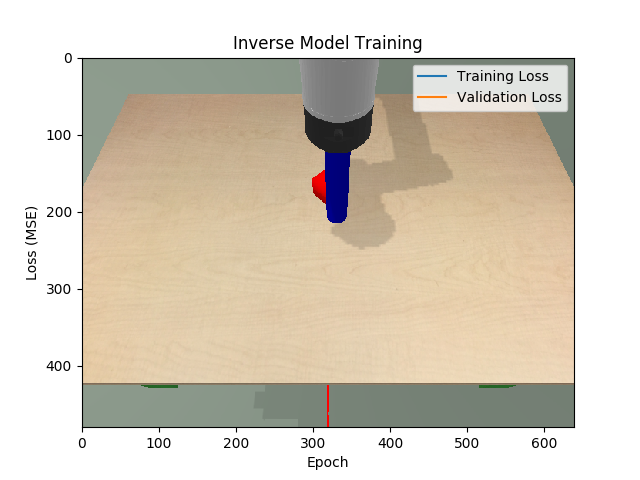
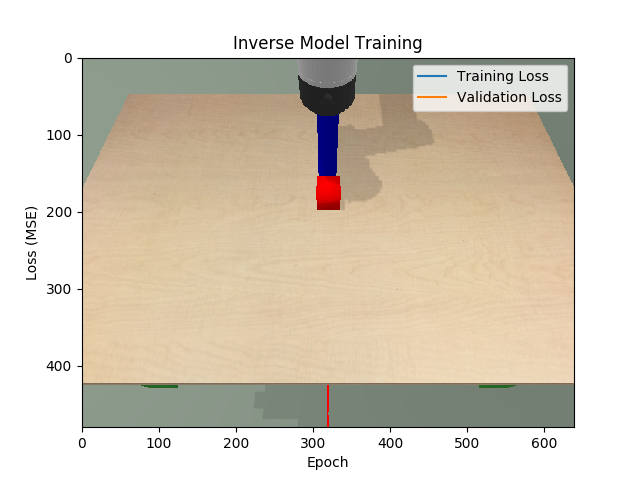
problem 1 done

Changed region(s): [[0.4688, 0.1562, 0.7188, 0.5312], [0.5625, 0.125, 0.5938, 0.1562]]

diff --git a/push_env.py b/push_env.py
@@ -66,7 +66,7 @@ class PushingEnv(object):
 
     def move_ee_xyz(self, delta_xyz, save=False):
 	if save:
-	    step_size = 0.015
+	    step_size = 0.0045
             num_steps = int(np.linalg.norm(delta_xyz) / step_size)
 	    step = np.array(delta_xyz) / num_steps
 	    for i in range(num_steps):
@@ -174,13 +174,13 @@ class PushingEnv(object):
                 break
         return start_x, start_y, end_x, end_y
 
-    def execute_push(self, start_x, start_y, end_x, end_y):
+    def execute_push(self, start_x, start_y, end_x, end_y, save=False):
         # move to starting push location
         init_obj = self.get_box_pose()[0][:2]
         self.move_ee_xyz([start_x-self.ee_home[0], start_y-self.ee_home[1], 0])
         self.move_ee_xyz([0, 0, self.ee_min_height-self.ee_rest_height])
         
-        self.move_ee_xyz([end_x-start_x, end_y-start_y, 0], save=True)# push
+        self.move_ee_xyz([end_x-start_x, end_y-start_y, 0], save)# push
         # important that we use move_ee_xyz, as set_ee_pose can throw obj in motion
         self.move_ee_xyz([0, 0, self.ee_rest_height-self.ee_min_height])
         
@@ -189,7 +189,7 @@ class PushingEnv(object):
         final_obj = self.get_box_pose()[0][:2]
         return init_obj, final_obj
 
-    def plan_inverse_model(self, model, seed=0):
+    def plan_inverse_model(self, model, save=False, seed=0):
         p.connect(p.DIRECT)
 	self.go_home()
         self.reset_box()
@@ -207,7 +207,7 @@ class PushingEnv(object):
         start_x, start_y, end_x, end_y = push
         self.reset_box()       
 	p.startStateLogging( p.STATE_LOGGING_VIDEO_MP4, "plan_inverse_model.mp4")
-        self.execute_push(start_x=start_x, start_y=start_y, end_x=end_x, end_y=end_y)
+        self.execute_push(start_x=start_x, start_y=start_y, end_x=end_x, end_y=end_y, save=save)
         final_obj = self.get_box_pose()[0][:2]
         goal_obj = goal_obj.numpy().flatten()
         loss = np.linalg.norm(final_obj-goal_obj)

diff --git a/inverse_model.py b/inverse_model.py
@@ -134,7 +134,7 @@ def plan_CEM(model, env):
 
 if __name__ == "__main__":
     model = InverseModel()
-    num_epochs=2
+    num_epochs=20
     train_losses, valid_losses = model.train(num_epochs=num_epochs)
     model.save(PATH="inverse_model_save.pt")
 
@@ -154,5 +154,14 @@ if __name__ == "__main__":
     #print(model.infer(init_obj, goal_obj))
 
     env = PushingEnv(ifRender=False)
-    for seed in range(10):
-        print("test loss:", env.plan_inverse_model(model, seed=seed))
+    num_trials = 10
+    errors = np.zeros(num_trials)
+    # save one push
+    errors[0] = env.plan_inverse_model(model, save=True, seed=0)
+    print("test loss:", errors[0])
+    # try 10 random seeds
+    for seed in range(1,10):
+	errors[seed] = env.plan_inverse_model(model, seed=seed)
+        print("test loss:", errors[seed])
+    
+    print("average loss:", np.mean(errors))
